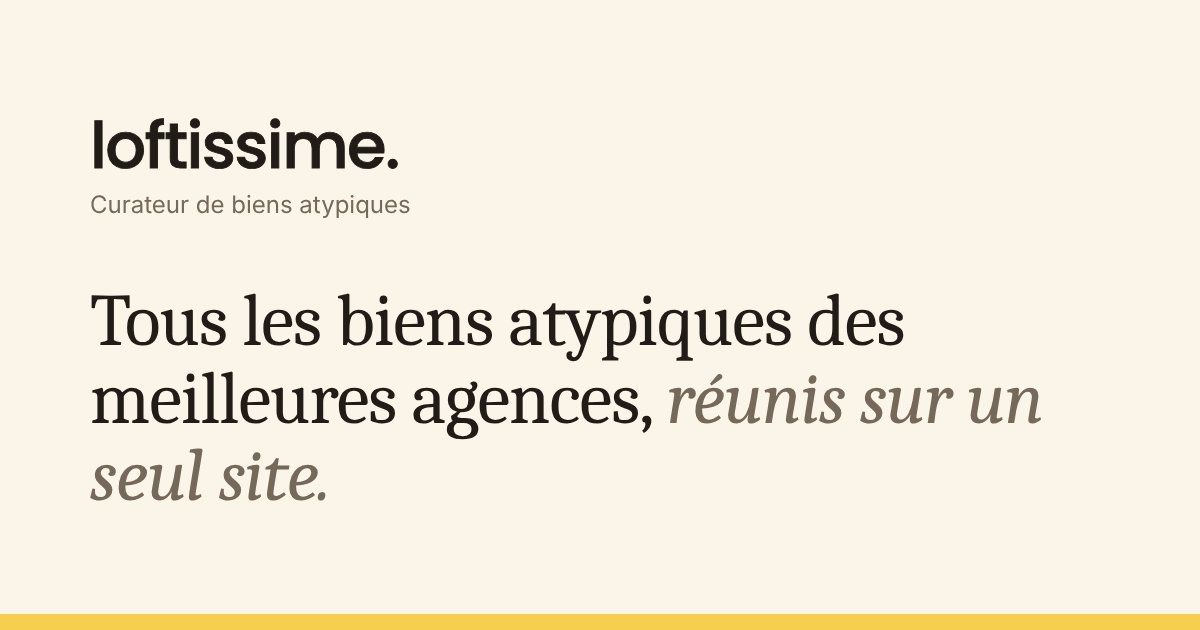
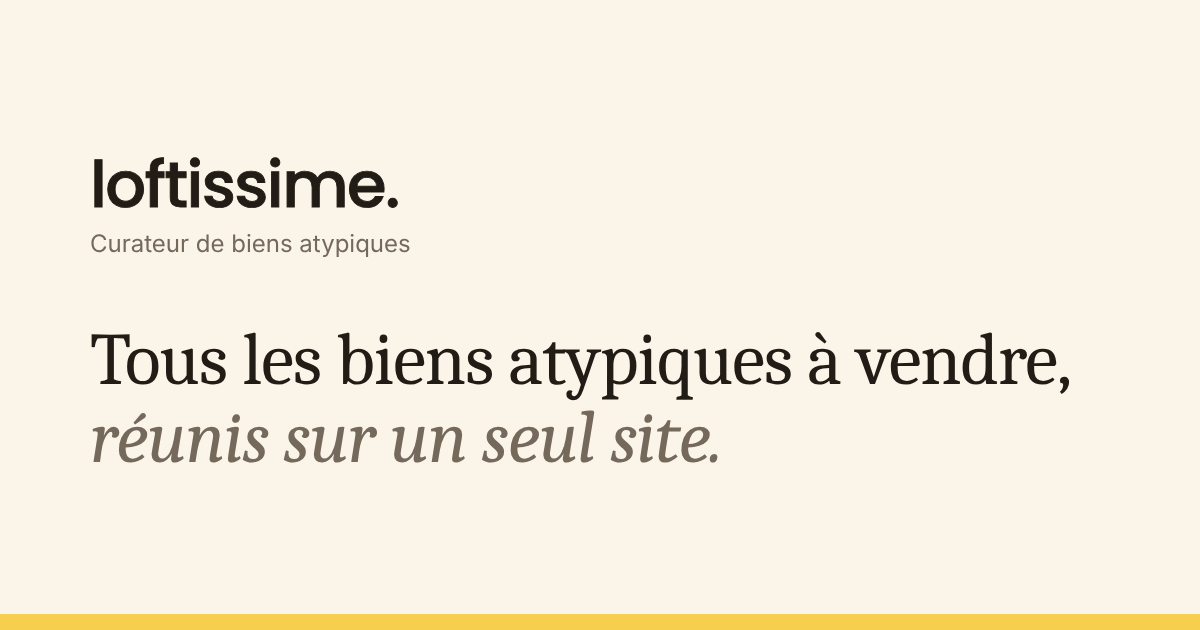
Accueil : « Tous les biens atypiques à vendre, réunis sur un seul site. »
Claude-Session: https://claude.ai/code/session_015aKJiDLUy7h6cRtFn1LWuo

Changed region(s): [[0.0617, 0.4524, 0.8942, 0.8143], [0.0617, 0.181, 0.3392, 0.4222]]

diff --git a/frontend/app/HeroTitle.tsx b/frontend/app/HeroTitle.tsx
@@ -4,7 +4,7 @@ export default function HeroTitle() {
     <>
       <p className="mb-4 text-xs uppercase tracking-widest text-stone-500">Curateur de biens atypiques</p>
       <h1 className="text-[2rem] md:text-[3.4rem] font-serif tracking-tight text-stone-900 max-w-5xl mx-auto leading-[1.1] [text-wrap:balance]">
-        Tous les biens atypiques des meilleures agences,{' '}
+        Tous les biens atypiques à vendre,{' '}
         <span className="italic text-stone-900 [background:linear-gradient(transparent_62%,#F6CF4E_62%)] [box-decoration-break:clone] [-webkit-box-decoration-break:clone]">réunis sur un seul site</span>.
       </h1>
     </>

diff --git a/frontend/app/apercu/peps/page.tsx b/frontend/app/apercu/peps/page.tsx
@@ -98,7 +98,7 @@ function Mock({ t, l }: { t: Theme; l: L | null }) {
       {/* Titre */}
       <div className="px-5 pb-7 pt-8 text-center" style={{ background: t.hero, color: heroInk }}>
         <p className="font-serif text-[1.7rem] leading-[1.12] tracking-tight [text-wrap:balance]">
-          Tous les biens atypiques des meilleures agences,{' '}
+          Tous les biens atypiques à vendre,{' '}
           <span
             className="[box-decoration-break:clone] [-webkit-box-decoration-break:clone]"
             style={t.hero ? { color: t.mark } : { background: `linear-gradient(transparent 62%, ${t.mark} 62%)` }}

diff --git a/frontend/app/layout.tsx b/frontend/app/layout.tsx
@@ -23,7 +23,7 @@ const ORG_DESCRIPTION =
 // Aperçu de partage (WhatsApp, SMS, réseaux) : la signature et la promesse du site
 const SHARE_TITLE = 'Loftissime · Curateur de biens atypiques';
 const SHARE_DESCRIPTION =
-  'Tous les biens atypiques des meilleures agences, réunis sur un seul site : lofts, ateliers d’artistes, rooftops, derniers étages.';
+  'Tous les biens atypiques à vendre, réunis sur un seul site : lofts, ateliers d’artistes, rooftops, derniers étages.';
 
 export const metadata: Metadata = {
   metadataBase: new URL(SITE_URL),
